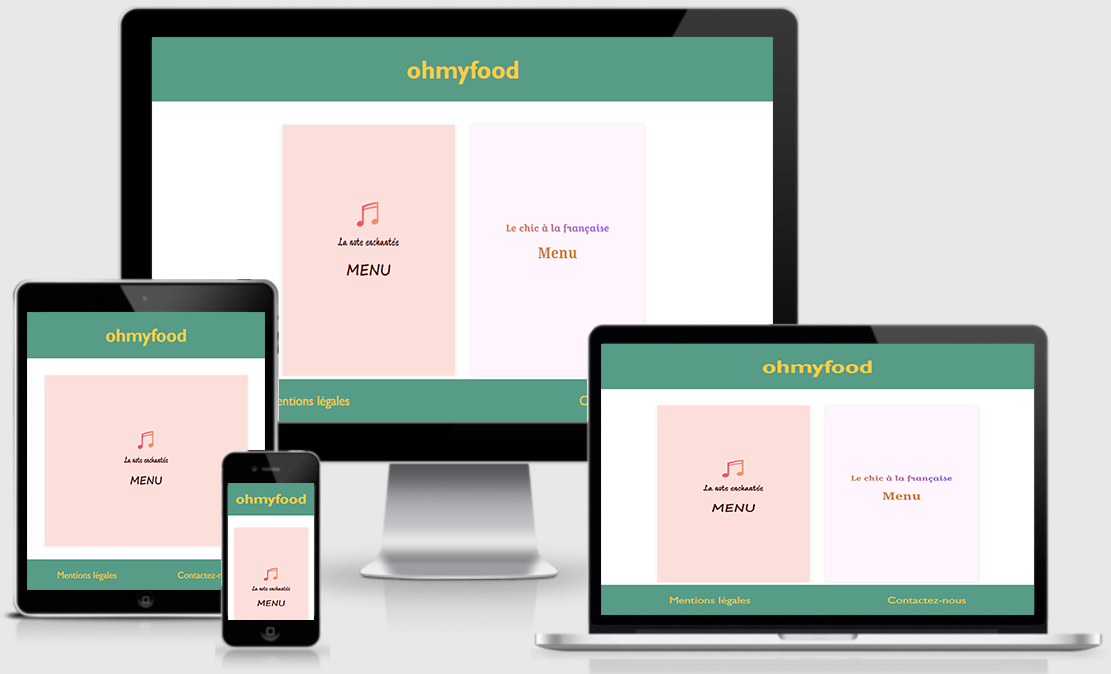
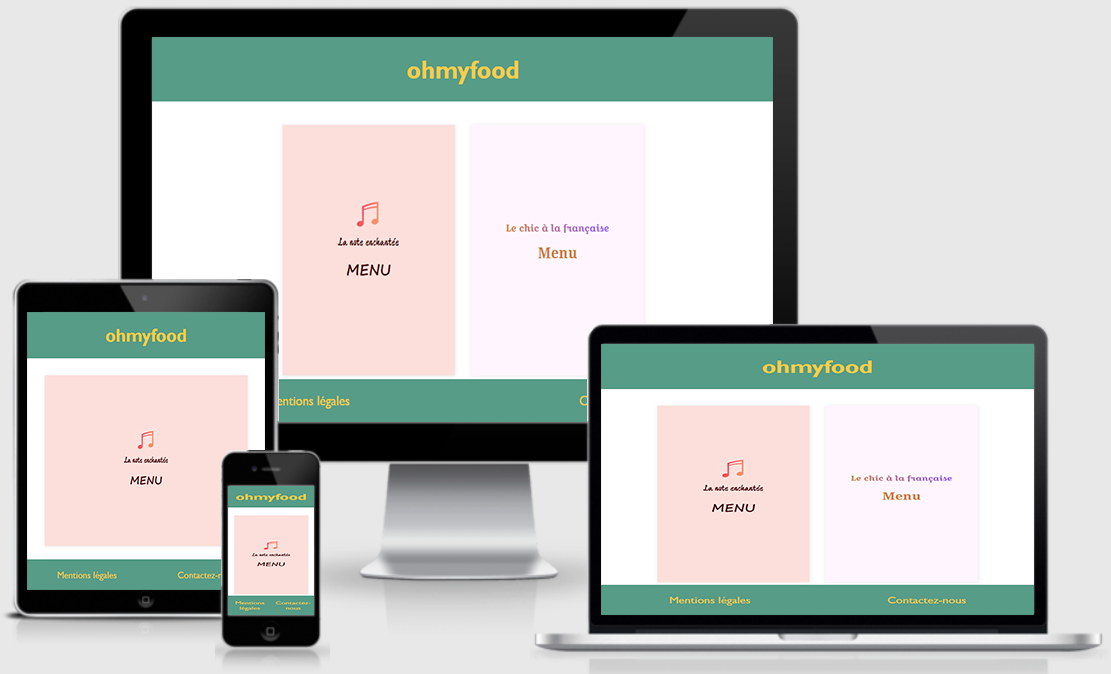
Correction du Readme et visuel projet

Changed region(s): [[0.1836, 0.7166, 0.306, 0.8412], [0.1836, 0.8724, 0.306, 0.9347]]

diff --git a/README.md b/README.md
@@ -1,6 +1,6 @@
 # Projet n°2 : Dynamiser une page web avec des animations CSS
 
-![GitHub contributors](https://img.shields.io/github/contributors/LancelleTimote/Projet-n-2-Dynamiser-une-page-web-avec-des-animations-CSS?style=for-the-badge)
+![GitHub contributors](https://img.shields.io/github/contributors/LancelleTimote/Projet-n-2-Dynamiser-une-page-web-avec-des-animations-CSS?color=green&style=for-the-badge)
 ![GitHub language count](https://img.shields.io/github/languages/count/LancelleTimote/Projet-n-2-Dynamiser-une-page-web-avec-des-animations-CSS?style=for-the-badge)
 ![GitHub repo size](https://img.shields.io/github/repo-size/LancelleTimote/Projet-n-2-Dynamiser-une-page-web-avec-des-animations-CSS?style=for-the-badge)
 ![GitHub last commit](https://img.shields.io/github/last-commit/LancelleTimote/Projet-n-2-Dynamiser-une-page-web-avec-des-animations-CSS?style=for-the-badge)
